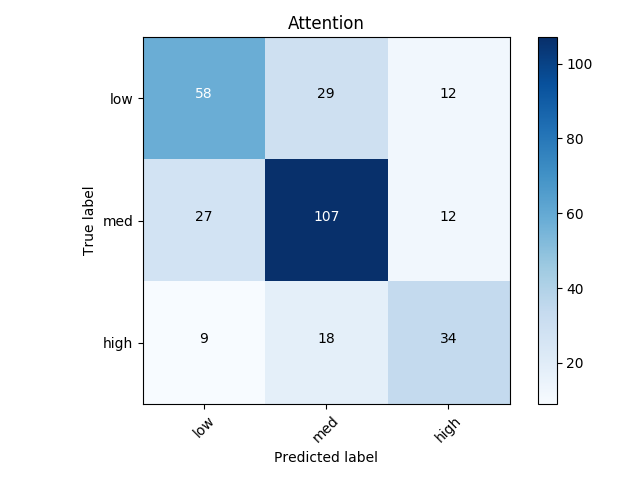
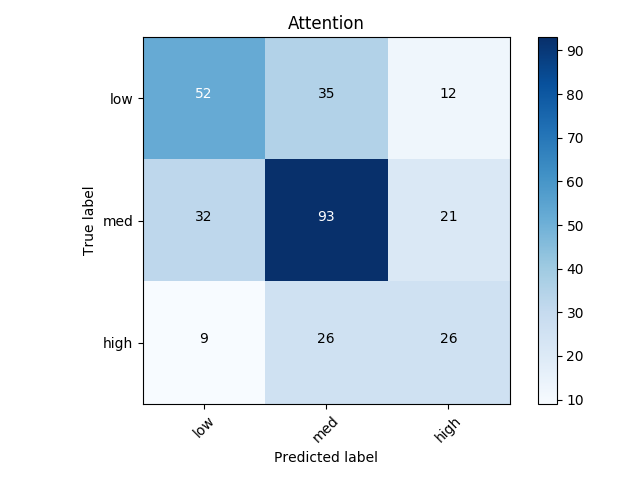
bigram and unigram emotion and clark models done

diff --git a/model.py b/model.py
@@ -18,6 +18,7 @@ class EmotionModel(object):
         self.vocab = set()
         self.true = list()
         self.pred = list()
+        self.version = 2 # 0 - unigrams, 1 - bigrams, 2, both
     
     def train(self, training_data):
         """
@@ -36,7 +37,7 @@ class EmotionModel(object):
 
         for row in training_data:
             emotion = row['Emotion']
-            res = tokenize(row['Player Message'])
+            res, message = tokenize(row['Player Message'], self.version)
             for word in res:
                 self.vocab.add(word)
                 if word in words:
@@ -75,13 +76,9 @@ class EmotionModel(object):
         messages = {}
 
         for row in testing_data:
-            res = []
             emotion = row['Emotion']
-            response = tokenize(row['Player Message'])
-            for word in response:
-                res.append(word)
-            parsed_message = ' '.join(res)
-            messages[parsed_message] = {}
+            parsed_message, message = tokenize(row['Player Message'], self.version)
+            messages[message] = {}
             self.true.append(emotion)
             classification = self.classify(self.ngrams, parsed_message, self.priors)
             self.pred.append(str(classification))
@@ -109,7 +106,7 @@ class EmotionModel(object):
         boredom = [priors['boredom'], 'boredom']
         frustration = [priors['frustration'], 'frustration']
             
-        for word in content.split():
+        for word in content:
             if word in training_dict:
                 sadness[0] += float(math.log(training_dict[word]['sadness']))
                 joy[0] += float(math.log(training_dict[word]['joy']))
@@ -188,7 +185,7 @@ class ClarkModel(object):
         self.vocab = set()
         self.true = {}
         self.pred = {}
-        self.version = 1 # unigrams = 0, bigrams = 1, both = 2
+        self.version = 0 # unigrams = 0, bigrams = 1, both = 2
 
     def train(self, training_data):
         """
@@ -447,27 +444,19 @@ class ClarkModel(object):
         Returns:
         String: classification according to the trained model
         """
-        sum_low = float(0)
-        sum_med = float(0)
-        sum_high = float(0)
 
-        for i, word in enumerate(content):
+        low = [priors['low'], 'low']
+        med = [priors['med'], 'med']
+        high = [priors['high'], 'high']
+
+        for word in content:
             if word in training_dict:
-                sum_low += float(math.log(training_dict[word]['low']))
-                sum_med += float(math.log(training_dict[word]['med']))
-                sum_high += float(math.log(training_dict[word]['high']))
+                low[0] += float(math.log(training_dict[word]['low']))
+                med[0] += float(math.log(training_dict[word]['med']))
+                high[0] += float(math.log(training_dict[word]['high']))
 
-        low_prob = math.log(priors['low']) + sum_low
-        med_prob = math.log(priors['med']) + sum_med
-        high_prob = math.log(priors['high']) + sum_high
-
-        max_val = max([low_prob, med_prob, high_prob])
-        if low_prob == max_val:
-            return 'low'
-        if med_prob == max_val:
-            return 'med'
-        else:
-            return 'high'
+        return max([low, med, high],key=lambda item:item[0])[1]
+        
 
     def calc_std_data(self, data_points):
         """

diff --git a/nlp_helpers.py b/nlp_helpers.py
@@ -44,12 +44,18 @@ def tokenize(row, ngram=0):
     
     temp_ret = [x for x in init_res if x != ""]
     
-    if ngram == 0: return temp_ret, row
-    
-    if len(temp_ret) != 0: 
-        return [" ".join(x) for x in list(nltk.bigrams(temp_ret))], row  
-    else: 
+    if len(temp_ret) == 0:
         return [], ""
+
+    if ngram == 0: 
+        return temp_ret, row
+    
+    if ngram == 1: 
+        return [" ".join(x) for x in list(nltk.bigrams(temp_ret))], row  
+    
+    if ngram == 2:
+        return temp_ret + [" ".join(x) for x in list(nltk.bigrams(temp_ret))], row
+        
 
 def is_stop_word(word):
     """

diff --git a/main.py b/main.py
@@ -2,5 +2,5 @@ from test import *
 import os
 
 data_list = ['data/' + x for x in os.listdir('data')]
-#train_test_split(data_list, 0.85, 0, True)
-n_fold_test(data_list,10, 0)
+train_test_split(data_list, 0.85, 0, True)
+#n_fold_test(data_list,10, 0)
